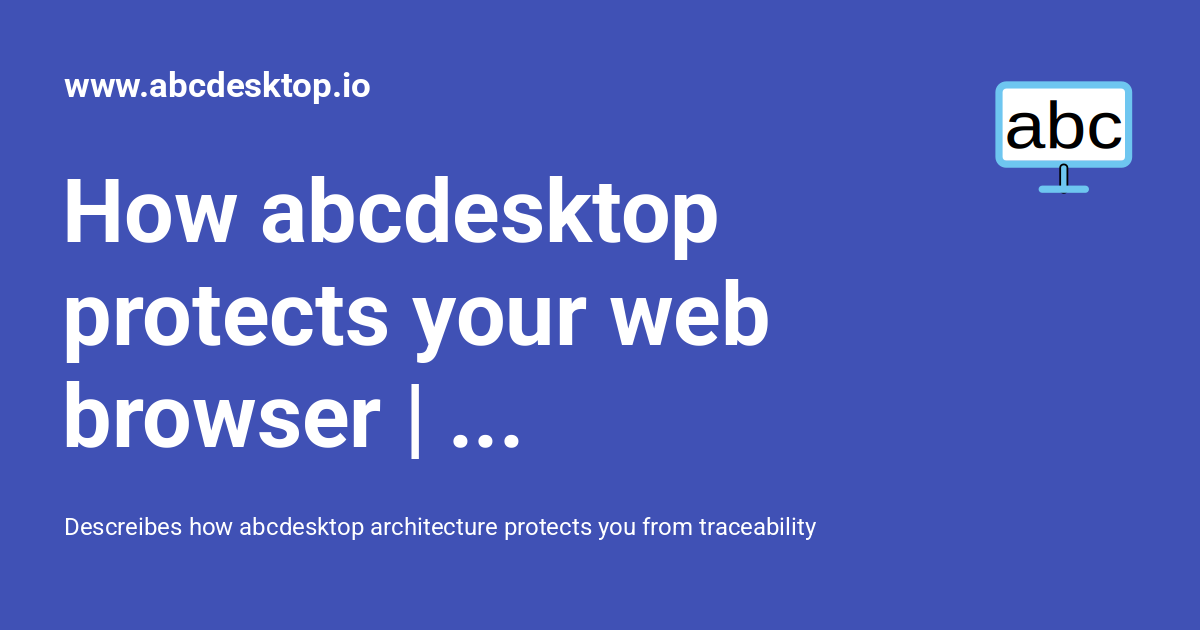
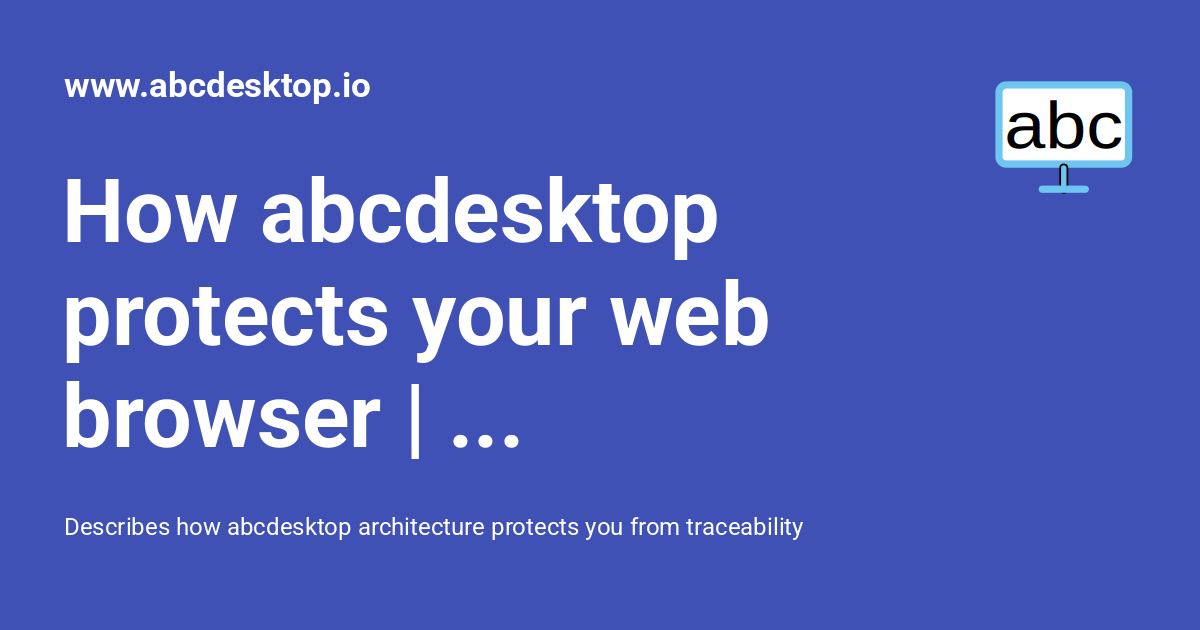
Deploying to gh-pages from @ abcdesktopio/docs@a91a8c1623a8df40138d2712e123bdfed04c3861 🚀

Changed region(s): [[0.0925, 0.8143, 0.6783, 0.8746]]

diff --git a/solutions/secure-web-browser/index.html b/solutions/secure-web-browser/index.html
@@ -6,7 +6,7 @@
       <meta charset="utf-8">
       <meta name="viewport" content="width=device-width,initial-scale=1">
       
-        <meta name="description" content="Descreibes how abcdesktop architecture protects you from traceability">
+        <meta name="description" content="Describes how abcdesktop architecture protects you from traceability">
       
       
         <meta name="author" content="abcdesktop.io contributors">
@@ -100,7 +100,7 @@
   <meta property="og:title"       content="How abcdesktop protects your web browser | abcdesktop.io" />
   
   
-  <meta property="og:description" content="Descreibes how abcdesktop architecture protects you from traceability" />
+  <meta property="og:description" content="Describes how abcdesktop architecture protects you from traceability" />
   
 
   
@@ -120,7 +120,7 @@
   <meta name="twitter:title"       content="How abcdesktop protects your web browser | abcdesktop.io" />
   
   
-  <meta name="twitter:description" content="Descreibes how abcdesktop architecture protects you from traceability" />
+  <meta name="twitter:description" content="Describes how abcdesktop architecture protects you from traceability" />
   
 
   
@@ -199,7 +199,7 @@
   
 <meta property="og:type" content="website" />
 <meta property="og:title" content="How abcdesktop protects your web browser | abcdesktop.io - www.abcdesktop.io" />
-<meta property="og:description" content="Descreibes how abcdesktop architecture protects you from traceability" />
+<meta property="og:description" content="Describes how abcdesktop architecture protects you from traceability" />
 <meta property="og:image" content="https://www.abcdesktop.io/assets/images/social/solutions/secure-web-browser.png" />
 <meta property="og:image:type" content="image/png" />
 <meta property="og:image:width" content="1200" />
@@ -207,7 +207,7 @@
 <meta property="og:url" content="https://www.abcdesktop.io/solutions/secure-web-browser/" />
 <meta property="twitter:card" content="summary_large_image" />
 <meta property="twitter:title" content="How abcdesktop protects your web browser | abcdesktop.io - www.abcdesktop.io" />
-<meta property="twitter:description" content="Descreibes how abcdesktop architecture protects you from traceability" />
+<meta property="twitter:description" content="Describes how abcdesktop architecture protects you from traceability" />
 <meta property="twitter:image" content="https://www.abcdesktop.io/assets/images/social/solutions/secure-web-browser.png" />
 </head>
   
